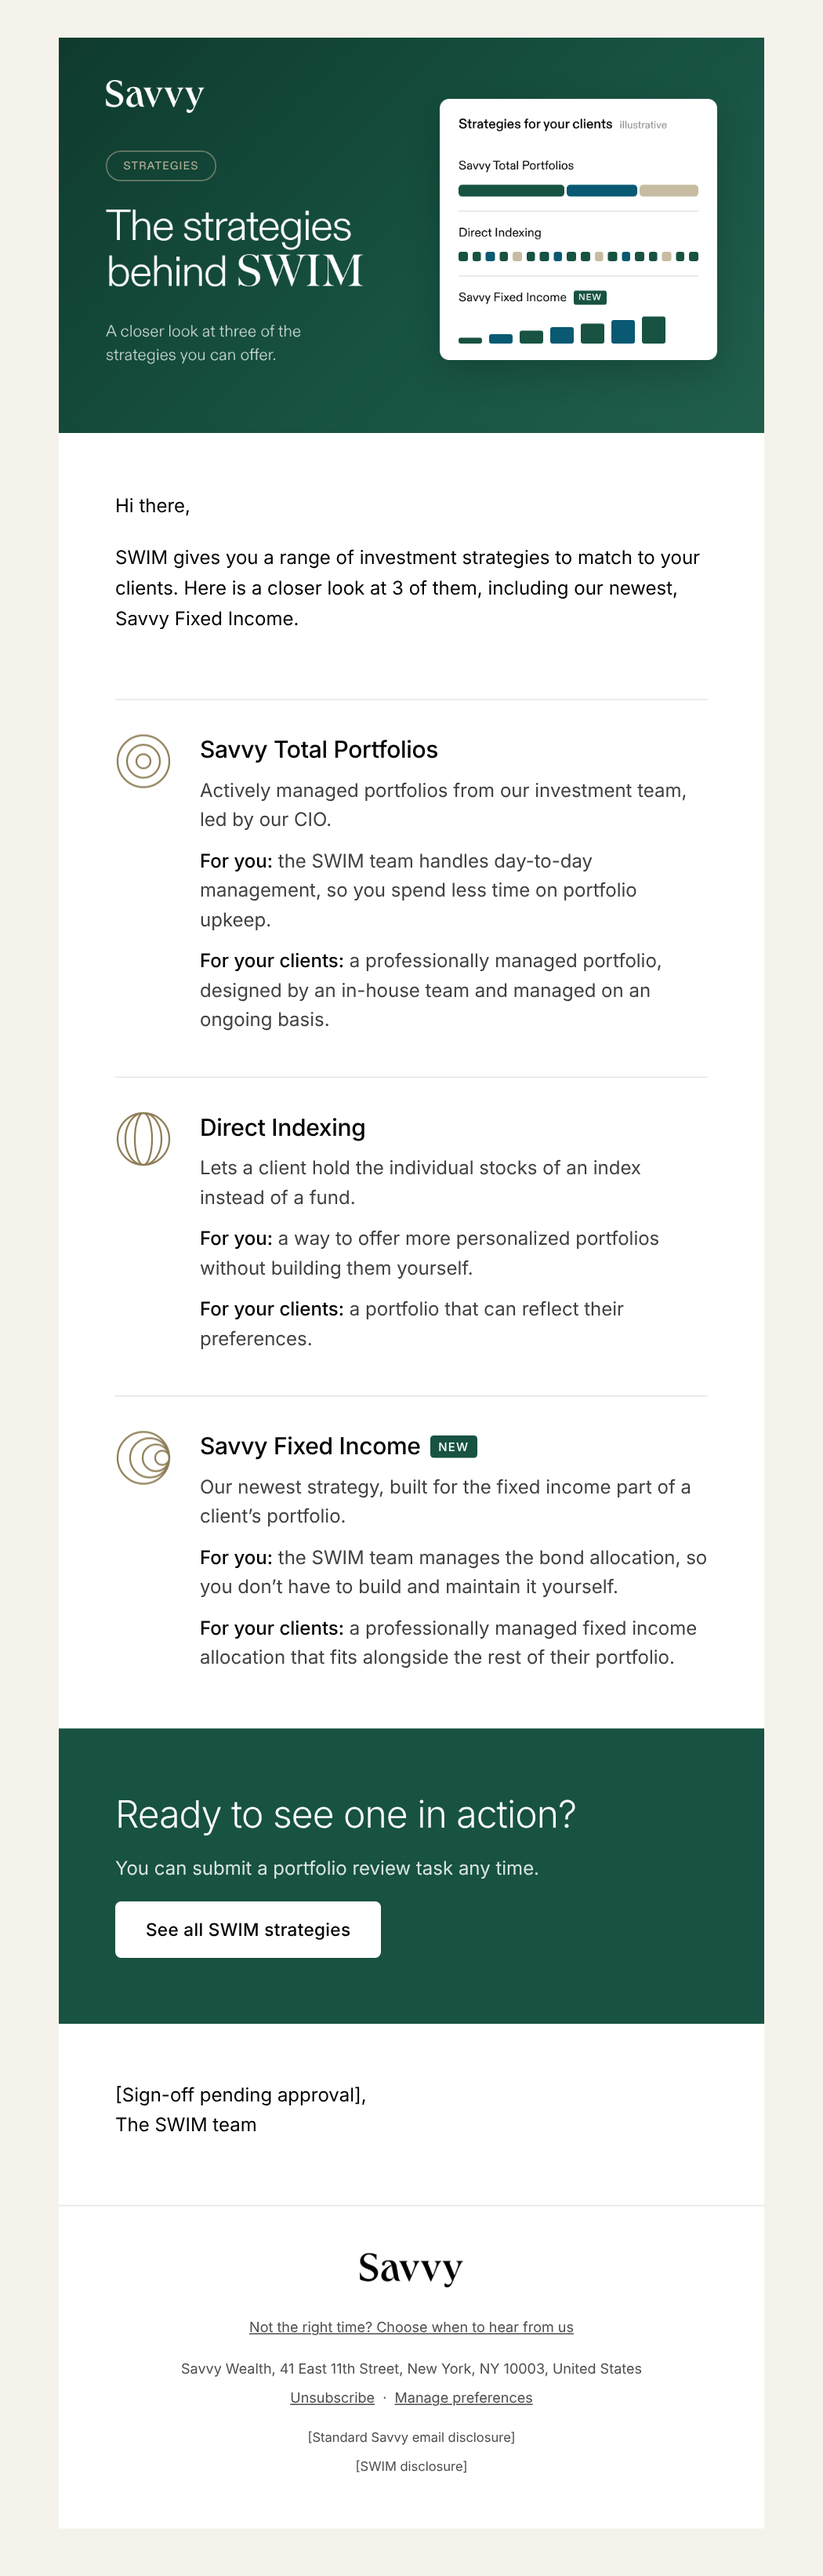
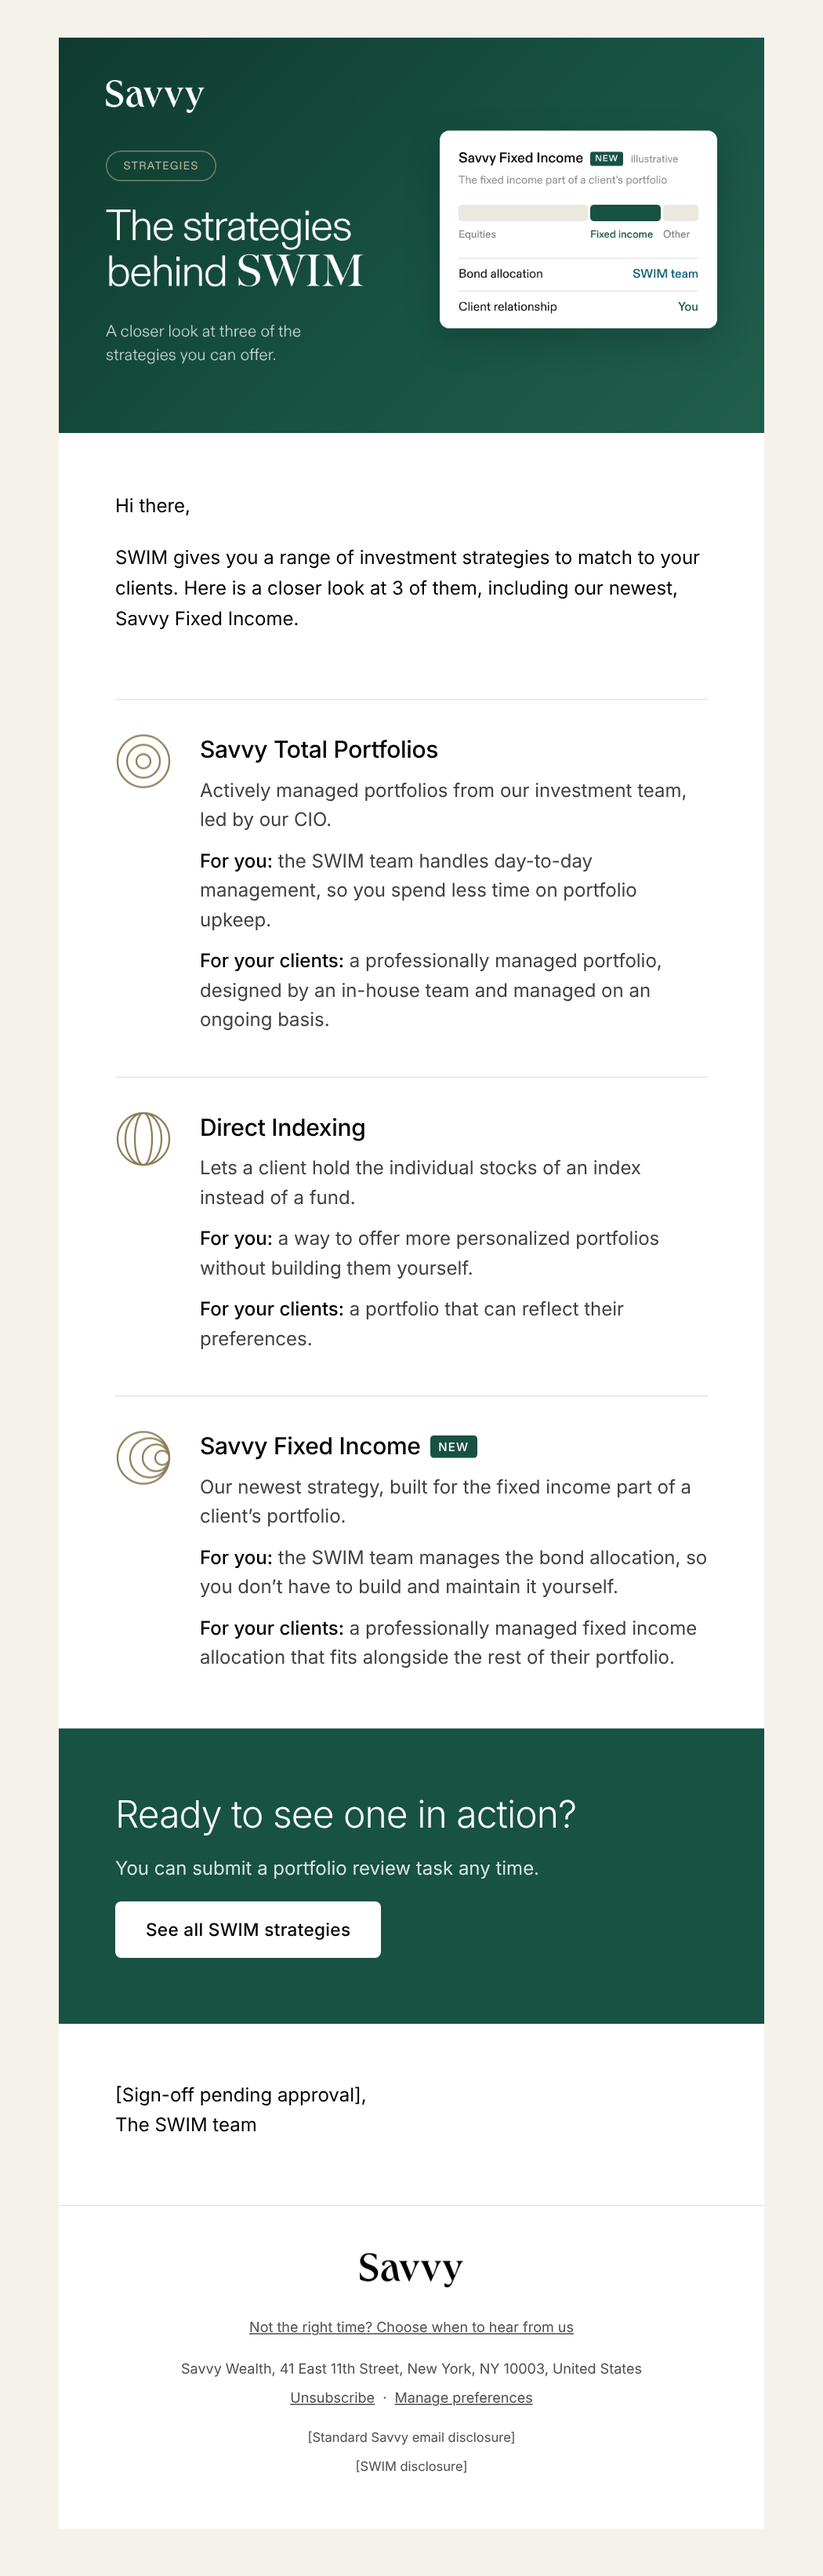
Email 4: header card focused on Savvy Fixed Income
Claude-Session: https://claude.ai/code/session_01C4U8FBFynJxChWkXC4yVRQ

Changed region(s): [[0.5181, 0.0311, 0.8838, 0.1553]]

diff --git a/emails/header-4.html b/emails/header-4.html
@@ -38,6 +38,6 @@
     <div class="sub">A closer look at three of the<br>strategies you can offer.</div>
   </div>
   
-  <div class="right"><div class="card" style="padding:14px 16px 2px;"><div style="display:flex;align-items:baseline;gap:6px;font-size:11.5px;font-weight:500;margin-bottom:10px;">Strategies for your clients <span style="font-weight:400;font-size:9px;color:#8a8a8a;">illustrative</span></div><div style="padding:12px 0;"><div style="font-size:10.5px;line-height:13px;">Savvy Total Portfolios</div><div style="margin-top:9px;"><div style="display:flex;gap:2px;height:10px;"><div style="flex:45;background:#175242;border-radius:3px;"></div><div style="flex:30;background:#095972;border-radius:3px;"></div><div style="flex:25;background:#C7BCA1;border-radius:3px;"></div></div></div></div><div style="padding:12px 0;border-top:1px solid #E6E6E6;"><div style="font-size:10.5px;line-height:13px;">Direct Indexing</div><div style="margin-top:9px;"><div style="display:flex;gap:4px;"><div style="width:8px;height:8px;border-radius:2px;background:#175242;"></div><div style="width:8px;height:8px;border-radius:2px;background:#175242;"></div><div style="width:8px;height:8px;border-radius:2px;background:#095972;"></div><div style="width:8px;height:8px;border-radius:2px;background:#175242;"></div><div style="width:8px;height:8px;border-radius:2px;background:#C7BCA1;"></div><div style="width:8px;height:8px;border-radius:2px;background:#175242;"></div><div style="width:8px;height:8px;border-radius:2px;background:#175242;"></div><div style="width:8px;height:8px;border-radius:2px;background:#095972;"></div><div style="width:8px;height:8px;border-radius:2px;background:#175242;"></div><div style="width:8px;height:8px;border-radius:2px;background:#175242;"></div><div style="width:8px;height:8px;border-radius:2px;background:#C7BCA1;"></div><div style="width:8px;height:8px;border-radius:2px;background:#175242;"></div><div style="width:8px;height:8px;border-radius:2px;background:#095972;"></div><div style="width:8px;height:8px;border-radius:2px;background:#175242;"></div><div style="width:8px;height:8px;border-radius:2px;background:#175242;"></div><div style="width:8px;height:8px;border-radius:2px;background:#C7BCA1;"></div><div style="width:8px;height:8px;border-radius:2px;background:#175242;"></div><div style="width:8px;height:8px;border-radius:2px;background:#175242;"></div></div></div></div><div style="padding:12px 0;border-top:1px solid #E6E6E6;"><div style="font-size:10.5px;line-height:13px;">Savvy Fixed Income<span style="display:inline-block;margin-left:6px;padding:2px 4px;background:#175242;border-radius:2px;font-size:7.5px;line-height:8px;letter-spacing:.08em;text-transform:uppercase;color:#fff;font-weight:500;vertical-align:1px;">New</span></div><div style="margin-top:9px;"><div style="display:flex;align-items:flex-end;gap:6px;height:23px;"><div style="width:20px;height:5px;border-radius:2px;background:#175242;"></div><div style="width:20px;height:8px;border-radius:2px;background:#095972;"></div><div style="width:20px;height:11px;border-radius:2px;background:#175242;"></div><div style="width:20px;height:14px;border-radius:2px;background:#095972;"></div><div style="width:20px;height:17px;border-radius:2px;background:#175242;"></div><div style="width:20px;height:20px;border-radius:2px;background:#095972;"></div><div style="width:20px;height:23px;border-radius:2px;background:#175242;"></div></div></div></div></div></div>
+  <div class="right"><div class="card" style="padding:16px 16px 4px;"><div style="font-size:12px;font-weight:500;line-height:15px;">Savvy Fixed Income<span style="display:inline-block;margin-left:6px;padding:2px 4px;background:#175242;border-radius:2px;font-size:7.5px;line-height:8px;letter-spacing:.08em;text-transform:uppercase;color:#fff;font-weight:500;vertical-align:1px;">New</span> <span style="margin-left:4px;font-weight:400;font-size:9px;color:#8a8a8a;">illustrative</span></div><div style="margin-top:4px;font-size:9.5px;line-height:13px;color:#8a8a8a;">The fixed income part of a client&rsquo;s portfolio</div><div style="display:flex;gap:2px;height:14px;margin-top:14px;"><div style="flex:55;background:#ECE8DF;border-radius:3px;"></div><div style="flex:30;background:#175242;border-radius:3px;"></div><div style="flex:15;background:#ECE8DF;border-radius:3px;"></div></div><div style="display:flex;gap:2px;margin-top:6px;font-size:9px;line-height:11px;color:#767676;"><div style="flex:55;">Equities</div><div style="flex:30;color:#175242;font-weight:500;">Fixed income</div><div style="flex:15;">Other</div></div><div style="margin-top:14px;"><div style="display:flex;justify-content:space-between;align-items:center;height:28px;font-size:10.5px;border-top:1px solid #E6E6E6;"><span>Bond allocation</span><span style="color:#095972;font-weight:500;">SWIM team</span></div><div style="display:flex;justify-content:space-between;align-items:center;height:28px;font-size:10.5px;border-top:1px solid #E6E6E6;"><span>Client relationship</span><span style="color:#175242;font-weight:500;">You</span></div></div></div></div>
 </div>
 </body></html>

diff --git a/emails/nurture-4.html b/emails/nurture-4.html
@@ -39,7 +39,7 @@
 
     <!-- HEADER IMAGE (source: header-4.html, 1200x672 @2x) -->
     <tr><td style="padding:0;line-height:0;font-size:0;">
-      <img src="./assets/header-4.png" width="600" alt="The strategies behind SWIM. A closer look at three of the strategies you can offer." style="width:100%;max-width:600px;height:auto;">
+      <img src="./assets/header-4.png" width="600" alt="The strategies behind SWIM. A closer look at three of the strategies you can offer, including our newest, Savvy Fixed Income." style="width:100%;max-width:600px;height:auto;">
     </td></tr>
 
     <!-- INTRO -->

diff --git a/emails/build_emails.py b/emails/build_emails.py
@@ -57,25 +57,21 @@ def tiles(labels):
     return '<div class="tiles">' + "".join(f'<div class="tile"><span>{l}</span>{ARROW}</div>' for l in labels) + '</div>'
 
 
-def _seg(w, c): return f'<td width="{w}" bgcolor="{c}" style="width:{w}px;background:{c};height:10px;font-size:0;line-height:0;">&nbsp;</td>'
+def fixed_income_card():
+    G, T = "#175242", "#095972"
+    tag = '<span style="display:inline-block;margin-left:6px;padding:2px 4px;background:#175242;border-radius:2px;font-size:7.5px;line-height:8px;letter-spacing:.08em;text-transform:uppercase;color:#fff;font-weight:500;vertical-align:1px;">New</span>'
+    bar = ('<div style="display:flex;gap:2px;height:14px;margin-top:14px;"><div style="flex:55;background:#ECE8DF;border-radius:3px;"></div>'
+           f'<div style="flex:30;background:{G};border-radius:3px;"></div><div style="flex:15;background:#ECE8DF;border-radius:3px;"></div></div>'
+           '<div style="display:flex;gap:2px;margin-top:6px;font-size:9px;line-height:11px;color:#767676;">'
+           f'<div style="flex:55;">Equities</div><div style="flex:30;color:{G};font-weight:500;">Fixed income</div><div style="flex:15;">Other</div></div>')
 
-
-def strategy_card():
-    G, T, E, GOLD_ = "#175242", "#095972", "#C7BCA1", "#8E7E57"
-    seg = (f'<div style="display:flex;gap:2px;height:10px;"><div style="flex:45;background:{G};border-radius:3px;"></div>'
-           f'<div style="flex:30;background:{T};border-radius:3px;"></div><div style="flex:25;background:{E};border-radius:3px;"></div></div>')
-    pat = [G, G, T, G, E, G, G, T, G, G, E, G, T, G, G, E, G, G]
-    dots = '<div style="display:flex;gap:4px;">' + "".join(f'<div style="width:8px;height:8px;border-radius:2px;background:{c};"></div>' for c in pat) + '</div>'
-    hs = [5, 8, 11, 14, 17, 20, 23]
-    stairs = '<div style="display:flex;align-items:flex-end;gap:6px;height:23px;">' + "".join(f'<div style="width:20px;height:{h}px;border-radius:2px;background:{G if i % 2 == 0 else T};"></div>' for i, h in enumerate(hs)) + '</div>'
-
-    def row(label, visual, first=False, new=False):
-        tag = '<span style="display:inline-block;margin-left:6px;padding:2px 4px;background:#175242;border-radius:2px;font-size:7.5px;line-height:8px;letter-spacing:.08em;text-transform:uppercase;color:#fff;font-weight:500;vertical-align:1px;">New</span>' if new else ''
-        bt = '' if first else 'border-top:1px solid #E6E6E6;'
-        return f'<div style="padding:12px 0;{bt}"><div style="font-size:10.5px;line-height:13px;">{label}{tag}</div><div style="margin-top:9px;">{visual}</div></div>'
-    return ('<div class="card" style="padding:14px 16px 2px;">'
-            '<div style="display:flex;align-items:baseline;gap:6px;font-size:11.5px;font-weight:500;margin-bottom:10px;">Strategies for your clients <span style="font-weight:400;font-size:9px;color:#8a8a8a;">illustrative</span></div>'
-            + row("Savvy Total Portfolios", seg, first=True) + row("Direct Indexing", dots) + row("Savvy Fixed Income", stairs, new=True) + '</div>')
+    def row(l, r, color, first=False):
+        bt = 'border-top:1px solid #E6E6E6;'
+        return f'<div style="display:flex;justify-content:space-between;align-items:center;height:28px;font-size:10.5px;{bt}"><span>{l}</span><span style="color:{color};font-weight:500;">{r}</span></div>'
+    return ('<div class="card" style="padding:16px 16px 4px;">'
+            f'<div style="font-size:12px;font-weight:500;line-height:15px;">Savvy Fixed Income{tag} <span style="margin-left:4px;font-weight:400;font-size:9px;color:#8a8a8a;">illustrative</span></div>'
+            '<div style="margin-top:4px;font-size:9.5px;line-height:13px;color:#8a8a8a;">The fixed income part of a client&rsquo;s portfolio</div>'
+            + bar + '<div style="margin-top:14px;">' + row("Bond allocation", "SWIM team", T) + row("Client relationship", "You", G) + '</div></div>')
 
 
 HEADERS = {
@@ -89,8 +85,8 @@ HEADERS = {
             alt="What SWIM gives your practice. The benefits behind the numbers."),
     4: dict(eyebrow="Strategies", h1="The strategies<br>behind <span class='serif'>SWIM</span>", fs=37,
             sub="A closer look at three of the<br>strategies you can offer.",
-            graphic=strategy_card(),
-            alt="The strategies behind SWIM. A closer look at three of the strategies you can offer."),
+            graphic=fixed_income_card(),
+            alt="The strategies behind SWIM. A closer look at three of the strategies you can offer, including our newest, Savvy Fixed Income."),
     5: dict(eyebrow="Straight answers", h1="Questions<br>about <span class='serif'>SWIM</span>", fs=40,
             sub="Time, taxes, and how SWIM<br>fits your approach.",
             graphic=list_card([("clock", "More time with my clients", 0), ("globe", "Taxes when I move a client", 0), ("circles", "Using my own approach", 0)]),
